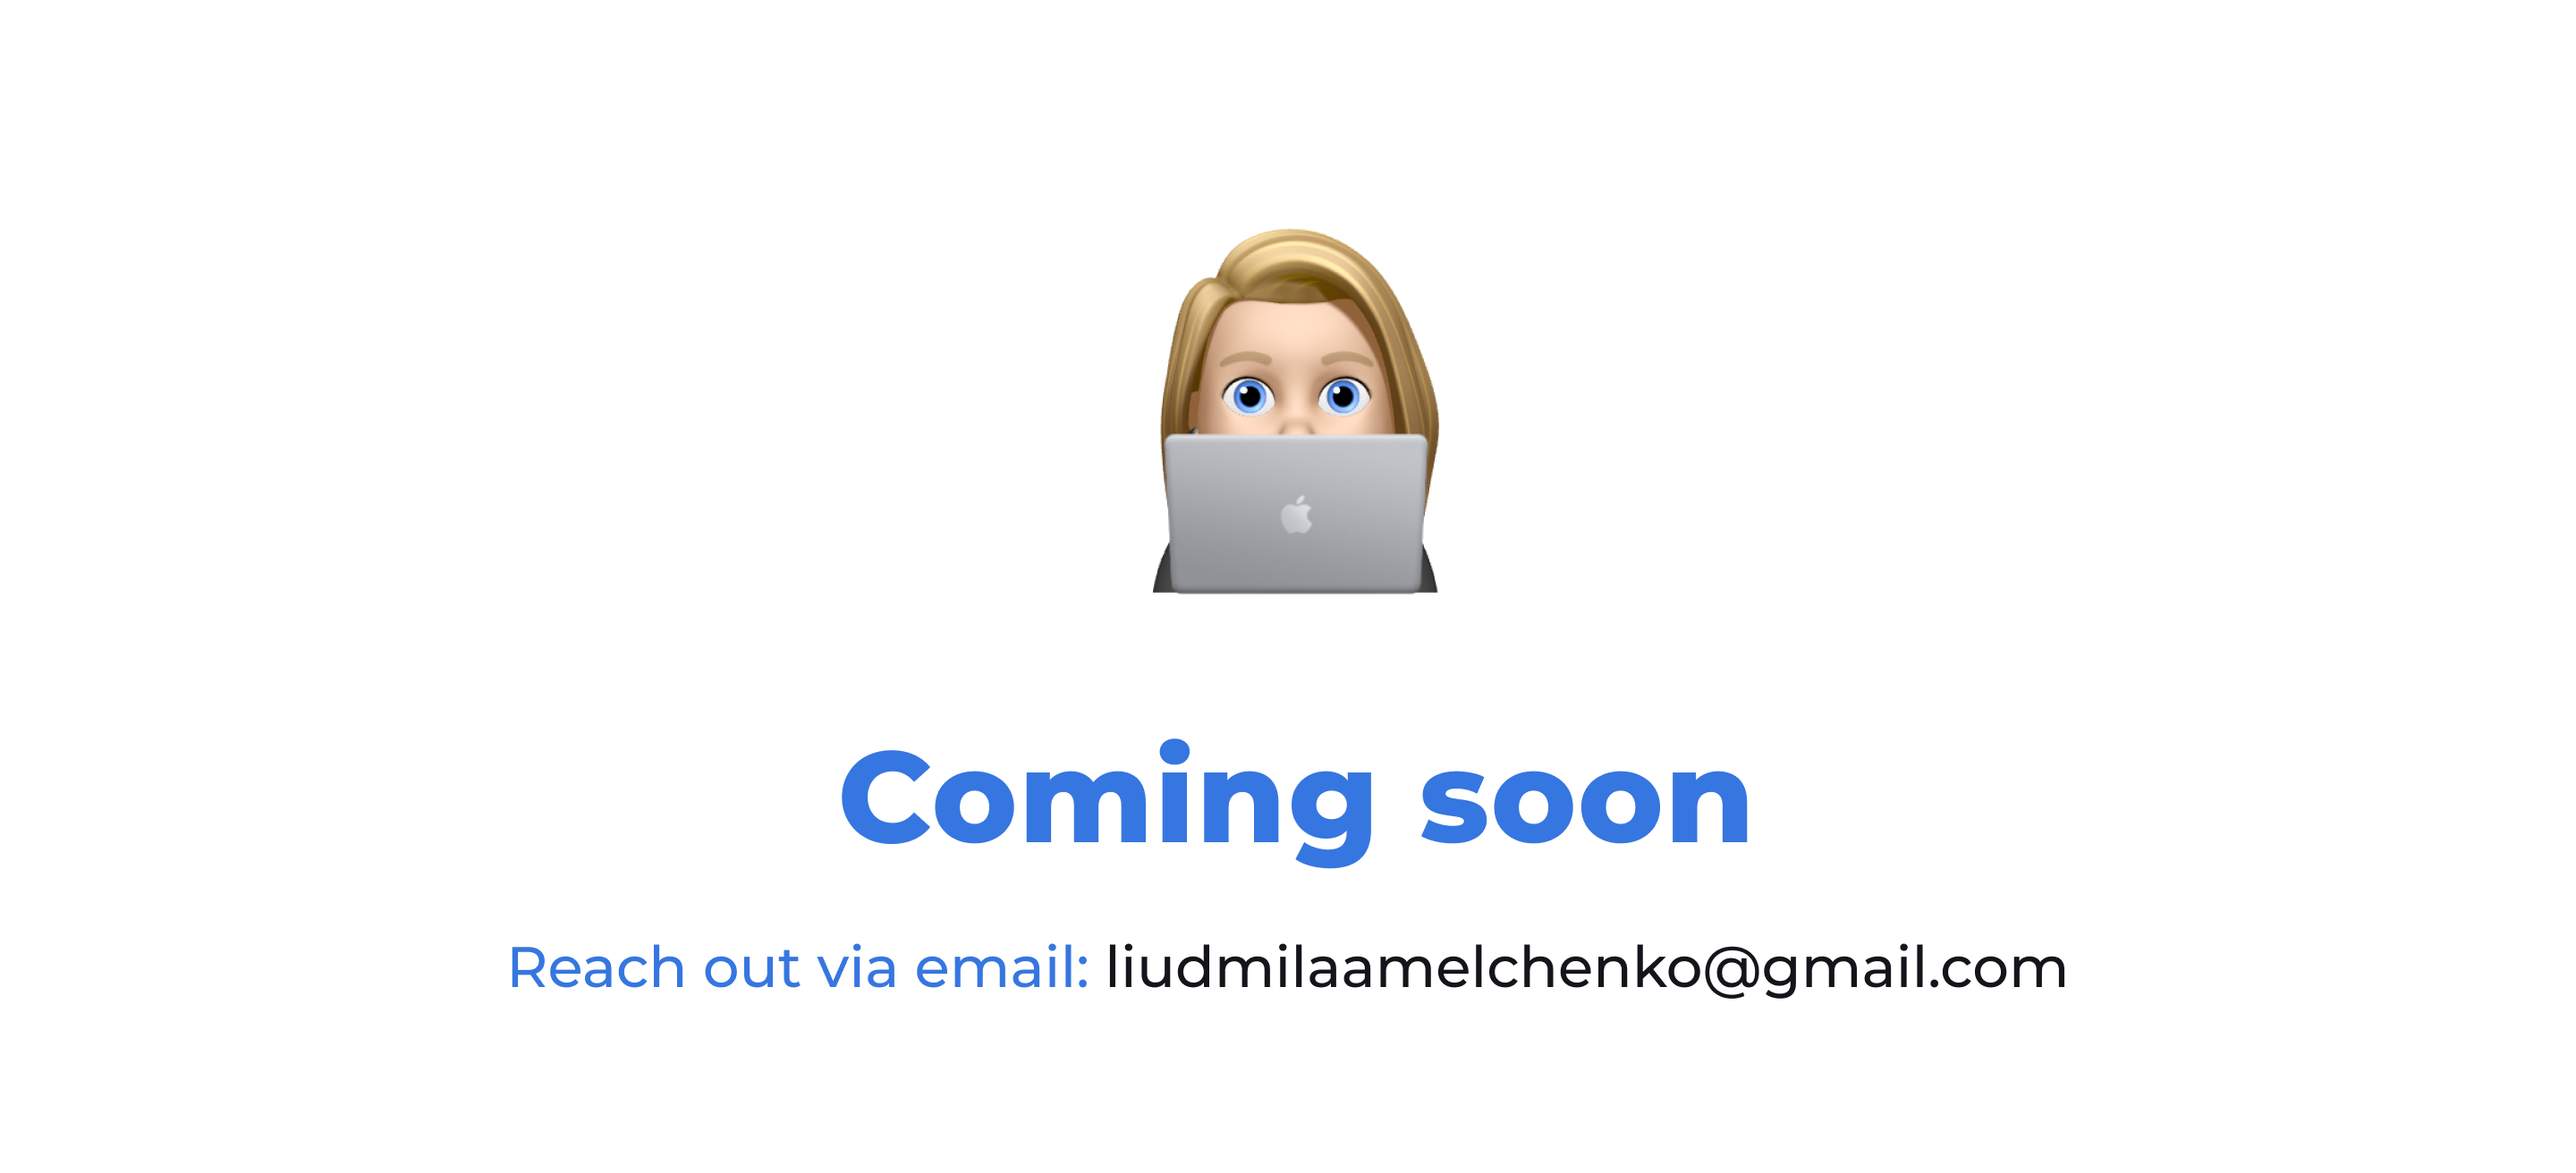
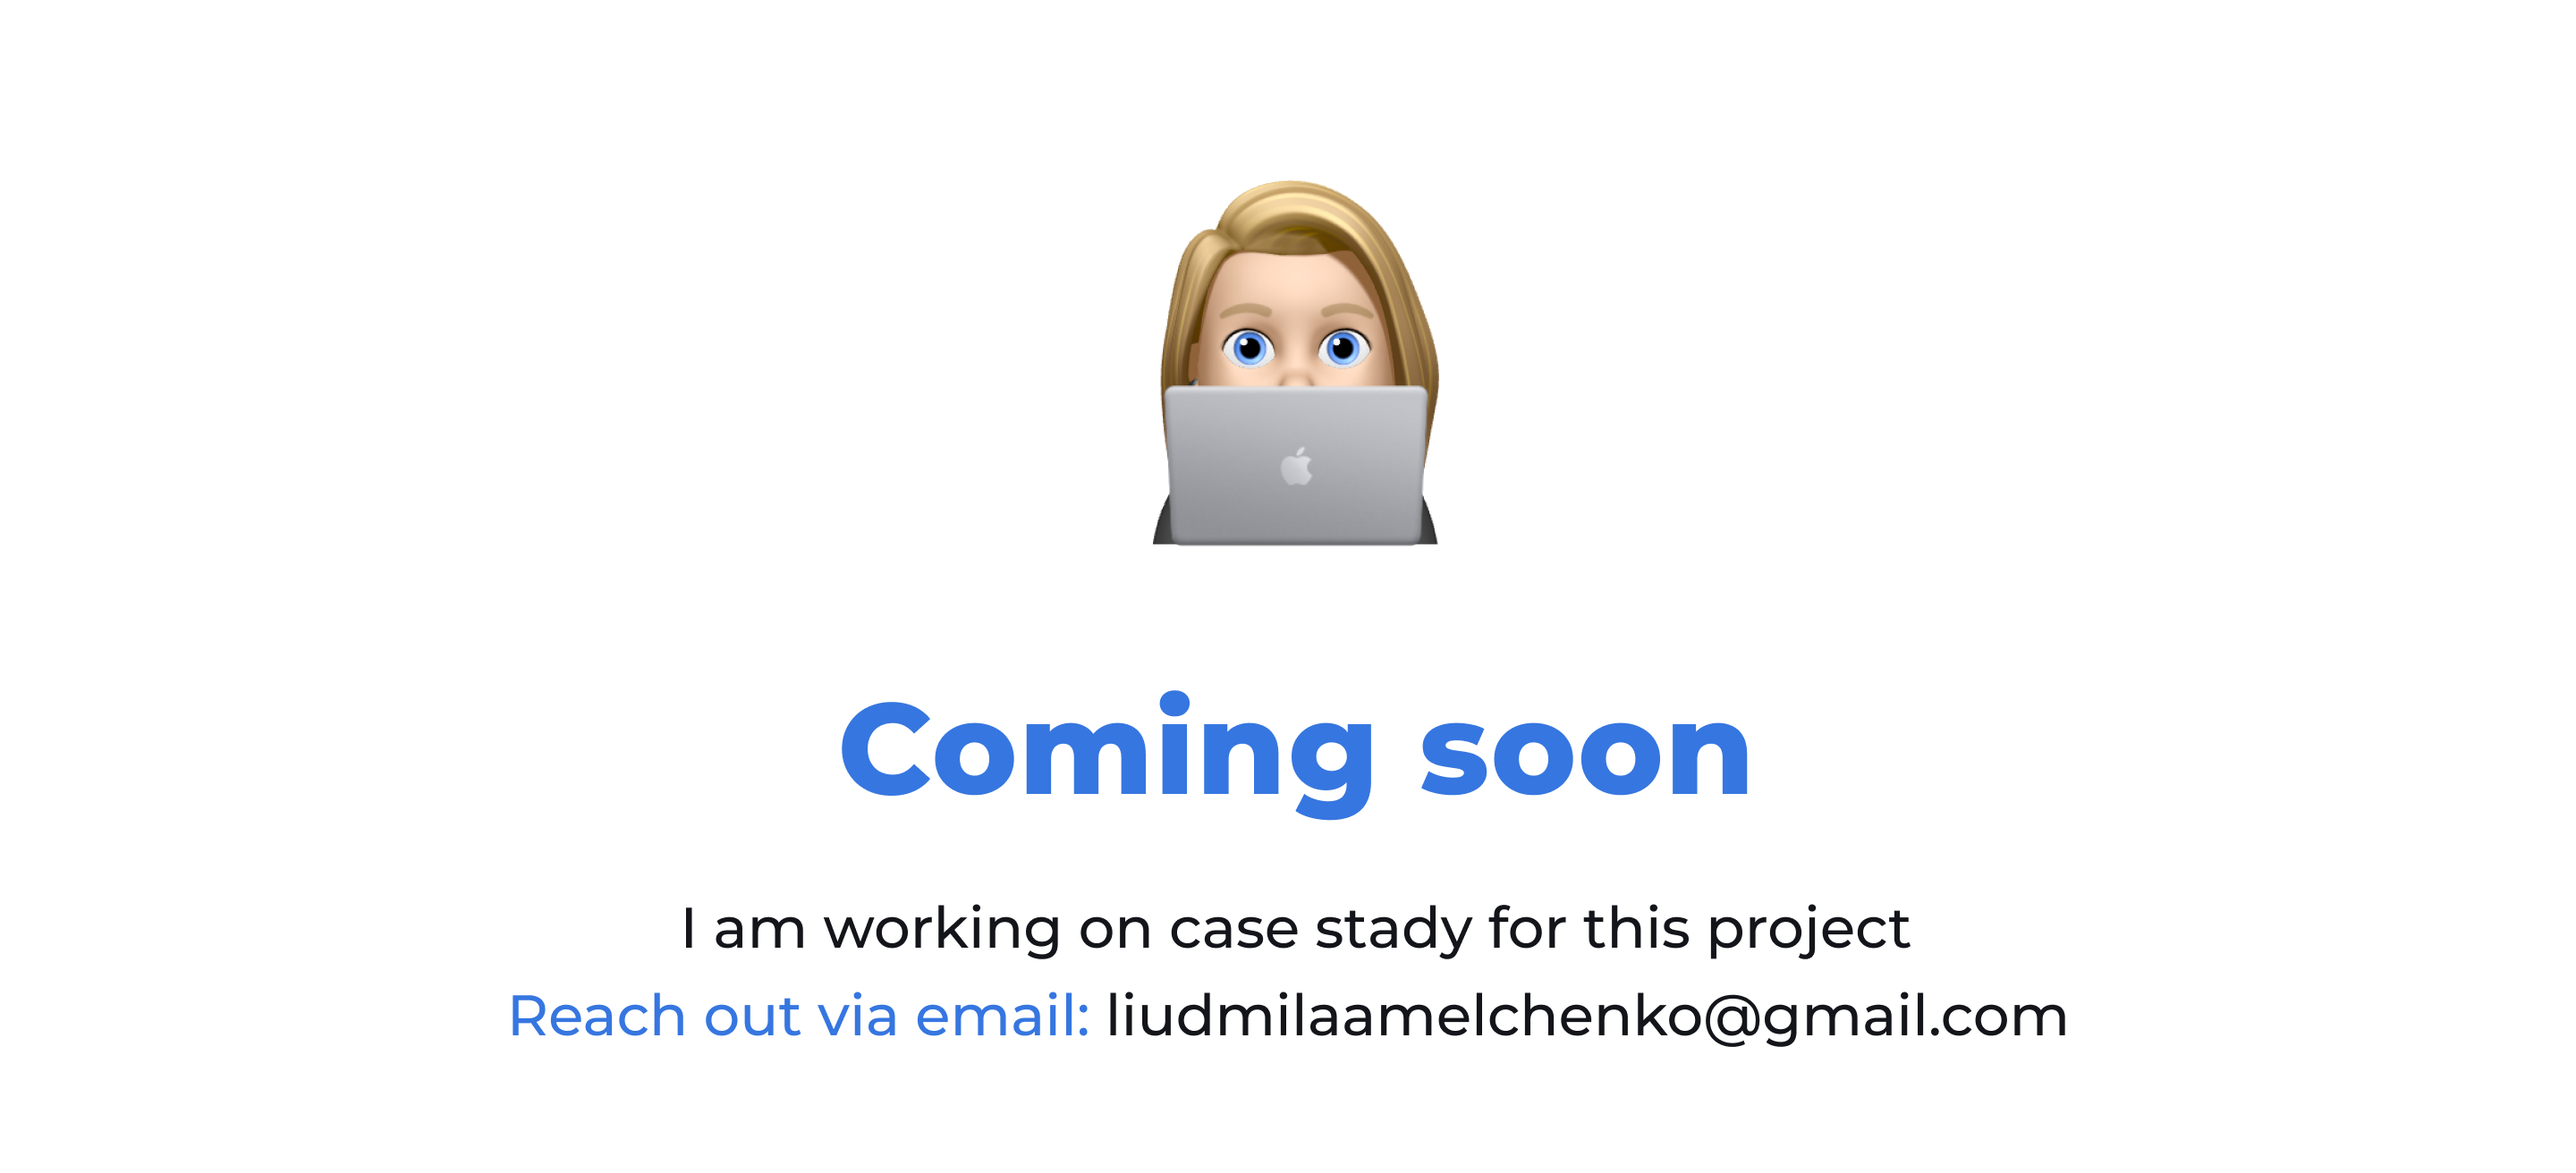
Change
I'm working on

Changed region(s): [[0.1875, 0.7812, 0.8125, 0.9062], [0.3125, 0.5938, 0.6875, 0.75], [0.4375, 0.1562, 0.5625, 0.5312]]

diff --git a/src/content/work/sleepagotchi.md b/src/content/work/sleepagotchi.md
@@ -3,7 +3,7 @@ title: Sleepagotchi
 publishDate: 2020-06-01 00:00:00
 img: /assets/luda-projects/sleepagotchi.png
 img_alt: Sleepagotchi project
-poster_img: /assets/luda-case-studies/сoming soon.png
+poster_img: /assets/sleepagotchi.png
 description: Mobile App Design for an application that aims to help you achieve a consistent sleep schedule
   
 tags:
